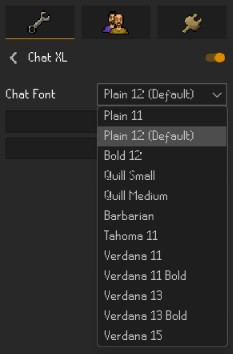
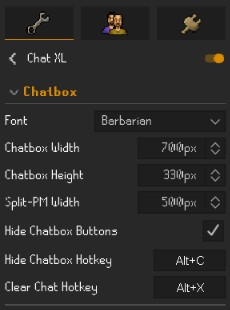
Version 2.6.0 Update

diff --git a/README.md b/README.md
@@ -8,7 +8,7 @@
 
 > **ChatXL** is a RuneLite plugin that makes the Old School RuneScape chatbox easier to read by letting you use larger and alternative in-game fonts while keeping the familiar RuneScape chat experience.
 > <br><br>
-> Whether you want bigger text, a bolder font, or simply something easier on the eyes, **ChatXL** automatically adjusts chat spacing, wrapping, usernames, icons, and message rows to fit your selected font.
+> Whether you want bigger text, a bolder font, a resized chatbox, or simply something easier on the eyes, **ChatXL** automatically adjusts chat spacing, wrapping, usernames, icons, message rows, and chatbox presentation to fit your selected settings.
 
 <p align="left">
   <img src="images/Barbarian.jpg" alt="Barbarian Font" width="500">
@@ -21,20 +21,32 @@
 - Choose from a variety of built-in RuneScape fonts.
 - Makes chat text larger (or smaller) and easier to read.
 - Automatically adjusts line spacing and message wrapping.
-- Keeps usernames, clan names, ranks, and message text aligned.
+- Keeps usernames, clan names, ranks, icons, and message text aligned.
 - Supports normal and Split Private Chat.
 - Supports Public Chat, Friends Chat, Clan Chat, and Guest Clan Chat.
 - Supports Game and System messages.
-- Works with RuneLite's resizable interface layouts.
+- Includes an integrated resizable chatbox for RuneLite's resizable interface layouts.
+- Supports independent chatbox width and height configuration.
+- Automatically rewraps retained chat messages when the effective chat width changes.
+- Preserves chat presentation while the chatbox interacts with movable RuneLite interface elements.
+- Allows Split Private Chat to follow a relocated chatbox.
+- Allows Split Private Chat to be moved independently by holding **Alt** and dragging it.
+- Supports an inherited or independently configured Split-PM width.
+- Includes a hotkey for hiding/showing chat buttons (**Alt+C** by default).
+- Includes a hotkey for clearing chat (**Alt+X** by default).
+- Clear chat commands are also available with `::clear` and `::cls`.
+- Applies font and supported layout changes without requiring a RuneLite restart.
 - Designed to preserve the look and feel of the native RuneScape chatbox.
-- Applies font changes immediately when you change your ChatXL settings.
-- Clear chatbox commands (`::clear` / `::cls`).
 
 ---
 
 ## Supported Fonts
 
 ChatXL uses fonts that already exist inside the Old School RuneScape client.
+
+<p align="left">
+  <img src="images/Fonts.jpg" alt="Configurations" width="225">
+</p>
 
 Available fonts include:
 
@@ -90,6 +102,35 @@ ChatXL also preserves the icons and labels normally shown alongside messages, in
 
 ---
 
+## Resizable Chatbox
+
+ChatXL includes an integrated chatbox resizer for RuneLite's resizable interface layouts.
+
+You can configure the chatbox width and height directly from ChatXL while retaining native-style message presentation. When the effective chat width changes, retained chat rows are reconstructed so wrapped messages continue to fit the available space.
+
+ChatXL also accounts for movable RuneLite interface elements when determining the effective chatbox area, helping the chatbox remain usable when other interface elements overlap its normal space.
+
+<p align="left">
+  <img src="images/Resizable-Chatbox.jpg" alt="Quill Medium" width="600">
+</p>
+
+---
+
+## Split Private Chat
+
+Split Private Chat is integrated with ChatXL's resized and relocated chatbox behavior.
+
+By default, Split-PM follows the relocated chatbox. You can also hold **Alt** and drag the Split-PM area to place it independently, using RuneLite's normal movable-overlay behavior.
+
+Split-PM width follows the chatbox width until it is manually overridden. Once a separate Split-PM width is configured, it remains independent until the setting is reset.
+
+Wrapped Split-PM messages also retain correct sender/prefix alignment with ChatXL fonts.
+
+<p align="left">
+  <img src="images/Split-Private.jpg" alt="Quill Medium" width="600">
+</p>
+
+---
 
 ## Installation
 
@@ -100,7 +141,7 @@ ChatXL is designed to be installed directly through the **RuneLite Plugin Hub**.
 3. Select **Plugin Hub**.
 4. Search for **ChatXL**.
 5. Install and enable the plugin.
-6. Open the **ChatXL** settings and choose your preferred font.
+6. Open the **ChatXL** settings and choose your preferred font and chatbox settings.
 
 ## Configurations
 
@@ -108,10 +149,25 @@ After installing the plugin:
 
 1. Open the **ChatXL** configuration panel.
 2. Select the font you want to use.
-3. Your visible chat messages will refresh automatically.
-4. Try different fonts until you find the size and style that is most comfortable for you.
+3. Configure your preferred chatbox width and height.
+4. Configure Split-PM width if you want it to differ from the chatbox width.
+5. Adjust the hide/show and clear-chat hotkeys if desired.
+6. Your visible chat messages will refresh automatically as supported settings change.
 
-There is no need to restart RuneLite when changing fonts.
+There is no need to restart RuneLite when changing fonts or supported ChatXL presentation settings.
+
+---
+
+## Hotkeys & Chat Controls
+
+ChatXL includes convenient controls for common chatbox actions:
+
+- **Alt+C** — Hide/show the chat buttons by default.
+- **Alt+X** — Clear the chat history by default.
+- `::clear` — Clear the chat history.
+- `::cls` — Clear the chat history.
+
+Both hotkeys can be changed from the ChatXL configuration panel.
 
 <p align="left">
   <img src="images/Configurations.jpg" alt="Configurations" width="225">
@@ -121,21 +177,24 @@ There is no need to restart RuneLite when changing fonts.
 
 ## Why ChatXL?
 
-RuneScape's default chat font can be difficult to read on larger displays, high-resolution monitors, or from farther away.
+RuneScape's default chat font and chatbox size can be difficult to read on larger displays, high-resolution monitors, or from farther away.
 
 ChatXL is intended for players who want:
 
 - Larger chat text without replacing the native chatbox.
+- A larger or differently sized chatbox while keeping RuneScape's familiar presentation.
 - More readable fonts for longer play sessions.
 - A choice of RuneScape-style fonts rather than external desktop fonts.
 - Consistent formatting across the different RuneScape chat channels.
+- Better control over Split Private Chat placement and width.
+- Convenient chat controls without replacing RuneLite's normal interface behavior.
 - Better readability while keeping the game interface familiar.
 
 ## Coming Soon
-<b>V1.3</b> [DONE]: GIM channel support<br>
-<b>V2.0</b> [DONE]: Integrated resizeable chatbox<br>
-<b>V2.5</b>: Resize UX polish<br>
-<b>V2.6</b>: Accessibility and player-facing improvements<br>
+
+<b>V2.7</b>: Additional resizable-interface integration and collision handling<br>
+<b>V2.8</b>: Resize UX polish<br>
+<b>V2.9</b>: Accessibility and player-facing improvements<br>
 <b>V3.0</b>: Further resizable interface integrations (Inventory, Minimap, et cetera)<br>
 
 ---
@@ -150,7 +209,7 @@ If something does not look right, please open a GitHub issue and include:
 - A short description of what happened.
 - Steps to reproduce it, if known.
 
-For layout issues, a screenshot showing the surrounding chatbox is especially helpful.
+For layout issues, a screenshot showing the surrounding chatbox and nearby movable interface elements is especially helpful.
 
 <p align="left">
   <img src="images/Verdana13Bold.jpg" alt="Verdana 13 Bold" width="500">
